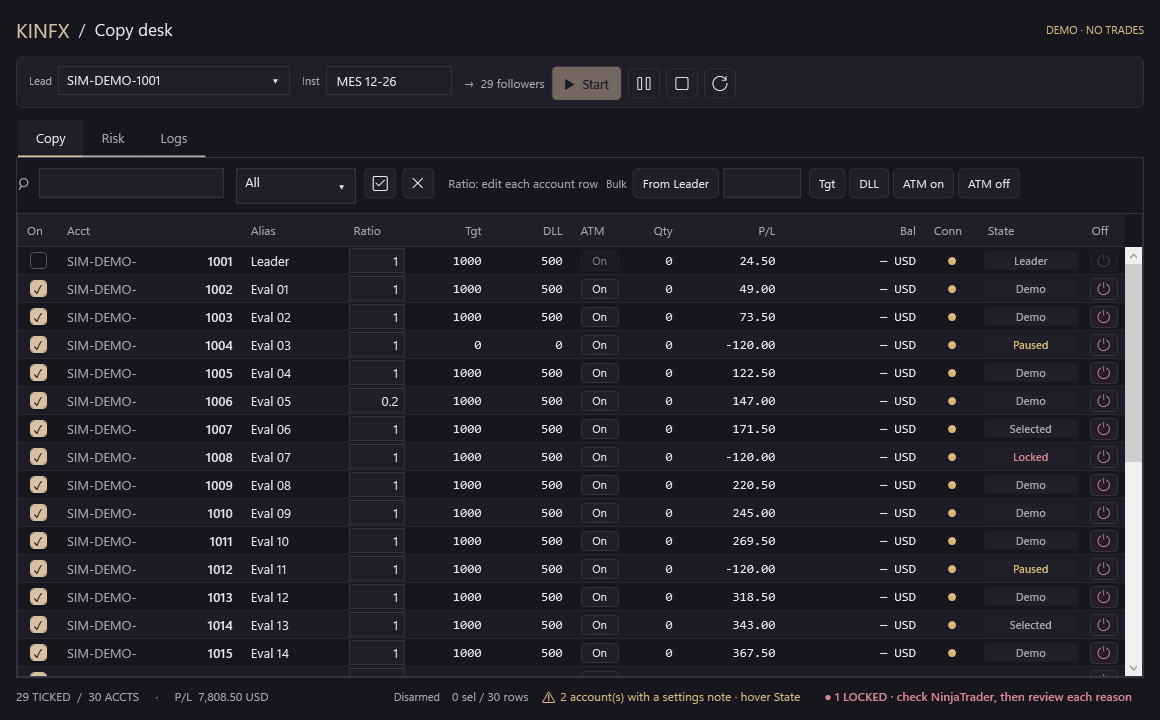
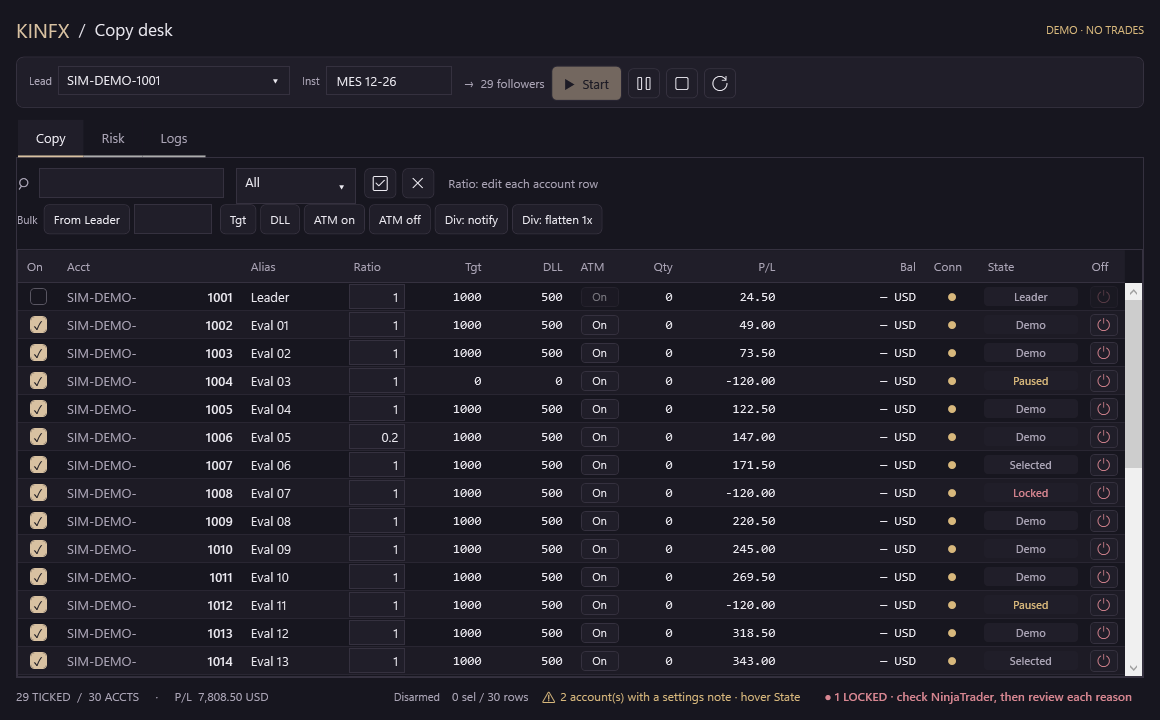
Issue #9 policy decided (oracles updated, engine unchanged); per-account OnDivergence setting (stored only); case-count test no longer hard-coded

diff --git a/src/AddOns/KINFXTradeCopier.cs b/src/AddOns/KINFXTradeCopier.cs
@@ -36,6 +36,7 @@ namespace NinjaTrader.NinjaScript.AddOns.Kinfx
             if(s==null||role=="Leader")return "";
             if(!RiskPolicy.Finite(s.Ratio)||s.Ratio<=0)return "Ratio is not a positive number";
             var notes=new System.Collections.Generic.List<string>();
+            if(s.OnDivergence=="FlattenOnce")notes.Add("On divergence = FlattenOnce is saved but NOT active in this alpha: the engine only locks and notifies, it never flattens by itself");
             if(s.Target<=0&&s.Loss<=0)notes.Add("no daily target and no daily loss limit (0 = off)");
             else if(s.Loss<=0)notes.Add("no daily loss limit (0 = off)");
             else if(s.Target<=0)notes.Add("no daily target (0 = off)");
@@ -113,13 +114,22 @@ namespace NinjaTrader.NinjaScript.AddOns.Kinfx
         public double Ratio = 1, Target, Loss, Floor, Baseline, TrailDistance, HighWater, BestDay, TotalProfit, Consistency;
         public int MaxContracts = 1;
         public string Alias = "", Group = "", Preset = "Custom", DrawdownType = "User defined";
+        // Reaction when this follower diverges (opposite / unknown exposure). "Notify" (default) = lock, red state, log; the engine
+        // never flattens by itself. "FlattenOnce" is an explicit per-account opt-in for a future guarded Flatten: one request, never retried.
+        // Stored only; the alpha engine has no automatic flatten and Flatten is disabled for every provider.
+        public string OnDivergence = "Notify";
         public bool BaselineSet, LocalTrail, CopyAtm=true;
         public RiskSettings Clone() { return (RiskSettings)MemberwiseClone(); }
         public bool Valid()
         {
             return new[] {Ratio,Target,Loss,Floor,Baseline,TrailDistance,HighWater,BestDay,TotalProfit,Consistency}.All(RiskPolicy.Finite)
-                && Ratio > 0 && Target >= 0 && Loss >= 0 && Floor >= 0 && MaxContracts > 0 && TrailDistance >= 0 && Consistency >= 0 && Consistency <= 100;
+                && Ratio > 0 && Target >= 0 && Loss >= 0 && Floor >= 0 && MaxContracts > 0 && TrailDistance >= 0 && Consistency >= 0 && Consistency <= 100
+                && DivergenceChoice.IsValid(OnDivergence);
         }
+    }
+    public static class DivergenceChoice
+    {
+        public static bool IsValid(string value){return value=="Notify"||value=="FlattenOnce";}
     }
     public sealed class RiskLatch
     {
@@ -1060,6 +1070,7 @@ namespace NinjaTrader.NinjaScript.AddOns.Kinfx
             if(t.ProcessedFollowGeneration==latestFollowGeneration)SyncFollowing(t.Following,t.DisablePending);else Changed();return true;
         }
         public bool CopyAtm {get{return Settings.CopyAtm;}set{Settings.CopyAtm=value;Changed();}}
+        public string OnDivergence {get{return Settings.OnDivergence;}set{if(!DivergenceChoice.IsValid(value))throw new ArgumentException("On divergence must be Notify or FlattenOnce");Settings.OnDivergence=value;Changed();}}
         public bool CanFollow {get{return Role!="Leader"&&(Account!=null?CopierEngine.Sim(Account):Connection=="Synthetic");}}
         public Brush ConnLight {get{return Connection=="Connected"?DashboardView.Good:Connection=="Disconnected"?DashboardView.Bad:Connection=="Synthetic"||Connection=="Connecting"?DashboardView.Warn:DashboardView.Off;}}
         public Brush StateLight {get{return Latch.Locked||Status=="Telemetry error"?DashboardView.Bad:Paused||Status=="Target hit"||(Status??"").IndexOf("pause",StringComparison.OrdinalIgnoreCase)>=0?DashboardView.Warn:Status=="Active"?DashboardView.Good:DashboardView.Off;}}
@@ -1261,7 +1272,7 @@ namespace NinjaTrader.NinjaScript.AddOns.Kinfx
             Sections=new TabControl{Background=Canvas,Foreground=Ink,BorderBrush=Line,Padding=new Thickness(0,10,0,0),ItemContainerStyle=TabStyle()};AddRow(this,Sections,2);
             var copy=new Grid();copy.RowDefinitions.Add(new RowDefinition{Height=GridLength.Auto});copy.RowDefinitions.Add(new RowDefinition{Height=new GridLength(1,GridUnitType.Star)});
             var toolbar=new WrapPanel{Margin=new Thickness(0,0,0,9)};
-            search=Input("",185);search.ToolTip="Search account / alias / group / preset · Ctrl+F · Escape clears";toolbar.Children.Add(Labeled("⌕",search,17));filter=Combo(120);filter.ToolTip="Filter displayed account states";filter.ItemsSource=new[]{"All","On","Paused","Target"};filter.SelectedIndex=0;toolbar.Children.Add(filter);var ticks=new StackPanel{Orientation=Orientation.Horizontal,Margin=new Thickness(0,0,0,6)};ticks.Children.Add(Icon("\uE73A","Tick all visible followers","tickAll",()=>TickVisible(true),true));ticks.Children.Add(Icon("\uE711","Untick all visible followers","tickNone",()=>TickVisible(false),true));toolbar.Children.Add(ticks);toolbar.Children.Add(new TextBlock{Text="Ratio: edit each account row",Foreground=Muted,FontSize=12,VerticalAlignment=VerticalAlignment.Center,Margin=new Thickness(8,0,8,6)});var bulk=new StackPanel{Orientation=Orientation.Horizontal,Margin=new Thickness(0,0,0,6)};bulk.Tag="bulkbar";bulk.Children.Add(Text("Bulk  ",11,Muted));var bulkValue=Input("",78);bulkValue.ToolTip="Amount for the highlighted accounts · account currency · 0 = off";System.Windows.Automation.AutomationProperties.SetName(bulkValue,"Bulk amount");bulk.Children.Add(bulkValue);bulk.Children.Add(TextTool("Tgt","Set Target on highlighted accounts","bulkTgt",()=>BulkClick("Tgt",bulkValue.Text)));bulk.Children.Add(TextTool("DLL","Set Daily loss on highlighted accounts","bulkDll",()=>BulkClick("DLL",bulkValue.Text)));bulk.Children.Add(TextTool("ATM on","ATM exit-mirroring ON for highlighted accounts","bulkAtmOn",()=>BulkClick("ATM","on")));bulk.Children.Add(TextTool("ATM off","ATM exit-mirroring OFF for highlighted accounts","bulkAtmOff",()=>BulkClick("ATM","off")));bulk.Children.Insert(1,TextTool("From Leader","Copy the leader row's Tgt / DLL / ATM to highlighted followers (all visible if none highlighted). One-time copy; edit any row afterwards. Ratio and ticks are not copied.","bulkLeader",()=>BulkLeaderClick()));bulkBar=bulk;toolbar.Children.Add(bulk);AddRow(copy,toolbar,0);
+            search=Input("",185);search.ToolTip="Search account / alias / group / preset · Ctrl+F · Escape clears";toolbar.Children.Add(Labeled("⌕",search,17));filter=Combo(120);filter.ToolTip="Filter displayed account states";filter.ItemsSource=new[]{"All","On","Paused","Target"};filter.SelectedIndex=0;toolbar.Children.Add(filter);var ticks=new StackPanel{Orientation=Orientation.Horizontal,Margin=new Thickness(0,0,0,6)};ticks.Children.Add(Icon("\uE73A","Tick all visible followers","tickAll",()=>TickVisible(true),true));ticks.Children.Add(Icon("\uE711","Untick all visible followers","tickNone",()=>TickVisible(false),true));toolbar.Children.Add(ticks);toolbar.Children.Add(new TextBlock{Text="Ratio: edit each account row",Foreground=Muted,FontSize=12,VerticalAlignment=VerticalAlignment.Center,Margin=new Thickness(8,0,8,6)});var bulk=new StackPanel{Orientation=Orientation.Horizontal,Margin=new Thickness(0,0,0,6)};bulk.Tag="bulkbar";bulk.Children.Add(Text("Bulk  ",11,Muted));var bulkValue=Input("",78);bulkValue.ToolTip="Amount for the highlighted accounts · account currency · 0 = off";System.Windows.Automation.AutomationProperties.SetName(bulkValue,"Bulk amount");bulk.Children.Add(bulkValue);bulk.Children.Add(TextTool("Tgt","Set Target on highlighted accounts","bulkTgt",()=>BulkClick("Tgt",bulkValue.Text)));bulk.Children.Add(TextTool("DLL","Set Daily loss on highlighted accounts","bulkDll",()=>BulkClick("DLL",bulkValue.Text)));bulk.Children.Add(TextTool("ATM on","ATM exit-mirroring ON for highlighted accounts","bulkAtmOn",()=>BulkClick("ATM","on")));bulk.Children.Add(TextTool("ATM off","ATM exit-mirroring OFF for highlighted accounts","bulkAtmOff",()=>BulkClick("ATM","off")));bulk.Children.Add(TextTool("Div: notify","On divergence: only lock, show red and notify (default) for highlighted accounts","bulkDivNotify",()=>BulkClick("Diverge","Notify")));bulk.Children.Add(TextTool("Div: flatten 1x","On divergence: request ONE flatten, never retried (saved only; NOT active in this alpha) for highlighted accounts","bulkDivFlat",()=>BulkClick("Diverge","FlattenOnce")));bulk.Children.Insert(1,TextTool("From Leader","Copy the leader row's Tgt / DLL / ATM to highlighted followers (all visible if none highlighted). One-time copy; edit any row afterwards. Ratio and ticks are not copied.","bulkLeader",()=>BulkLeaderClick()));bulkBar=bulk;toolbar.Children.Add(bulk);AddRow(copy,toolbar,0);
             AccountGrid=GridTable();TickColumn(AccountGrid);AccountColumn(AccountGrid);Column(AccountGrid,"Alias","Alias",100,false,"Optional display alias");RatioColumn(AccountGrid);Column(AccountGrid,"Tgt","TargetText",78,false,"Independent daily local profit target · account CCY / 0 = off",null,true);Column(AccountGrid,"DLL","LossText",78,false,"Independent daily loss limit · positive amount / 0 = off",null,true);AtmColumn(AccountGrid);Column(AccountGrid,"Qty","Position",55,true,"Signed position · + long / − short",null,true);Column(AccountGrid,"P/L","Pnl",95,true,"Observed session P/L in account currency · baseline is not historical daily accounting","N2",true);Column(AccountGrid,"Bal","BalanceText",130,true,"CashValue in account currency; not NetLiquidation / net equity",null,true);((DataGridTextColumn)AccountGrid.Columns.Last()).ElementStyle.Setters.Add(new Setter(FrameworkElement.ToolTipProperty,new Binding("BalanceDetail")));((DataGridTextColumn)AccountGrid.Columns.Last()).ElementStyle.Setters.Add(new Setter(System.Windows.Automation.AutomationProperties.NameProperty,new Binding("BalanceDetail")));LightColumn(AccountGrid,"Conn","ConnLight","Connection");StateColumn(AccountGrid);OffColumn(AccountGrid);AccountGrid.FrozenColumnCount=2;ProportionalCopyColumns(AccountGrid);AddRow(copy,AccountGrid,1);Sections.Items.Add(new TabItem{Header="Copy",Content=copy});
             var risk=new Grid();risk.RowDefinitions.Add(new RowDefinition{Height=GridLength.Auto});risk.RowDefinitions.Add(new RowDefinition{Height=new GridLength(1,GridUnitType.Star)});risk.RowDefinitions.Add(new RowDefinition{Height=GridLength.Auto});var tools=new WrapPanel{Margin=new Thickness(0,0,0,10)};
             var batch=Icon("\uE713","Batch risk / presets · review hold","batch",()=>Send("batch"));batch.IsEnabled=false;tools.Children.Add(batch);tools.Children.Add(Icon("\uE74E","Save settings","save",()=>Send("save")));tools.Children.Add(Icon("\uE787","Trading-day boundary / timezone","daySettings",()=>Send("daySettings")));tools.Children.Add(Icon("\uE769","Pause highlighted accounts","pauseSelected",()=>SetSelectedPause(true)));tools.Children.Add(Icon("\uE768","Resume highlighted accounts · latch unchanged / no auto-arm","resumeSelected",()=>SetSelectedPause(false)));var fs=Icon("\uE74D","Flatten highlighted accounts · review hold","flattenSelected",()=>Send("flattenSelected"));fs.IsEnabled=false;tools.Children.Add(fs);var fa=Icon("\uE7BA","Flatten all displayed accounts · review hold","flattenAll",()=>Send("flattenAll"));fa.IsEnabled=false;tools.Children.Add(fa);
@@ -1303,10 +1314,11 @@ namespace NinjaTrader.NinjaScript.AddOns.Kinfx
             double amount=0;bool atm=false;
             if(field=="Tgt"||field=="DLL"){if(!BulkEdit.TryParseAmount(text,out amount))return "Enter a plain amount like 1000 (0 = off); no commas, signs or text";}
             else if(field=="ATM"){if(text=="on")atm=true;else if(text=="off")atm=false;else return "ATM value must be on or off";}
+            else if(field=="Diverge"){if(!DivergenceChoice.IsValid(text))return "On divergence must be Notify or FlattenOnce";}
             else return "Unknown bulk field";
             foreach(var r in targets)
             {
-                if(field=="Tgt")r.Target=amount;else if(field=="DLL")r.Loss=amount;else r.CopyAtm=atm;
+                if(field=="Tgt")r.Target=amount;else if(field=="DLL")r.Loss=amount;else if(field=="Diverge")r.OnDivergence=text;else r.CopyAtm=atm;
                 r.Changed();
             }
             UpdateCards();return null;
@@ -1323,7 +1335,7 @@ namespace NinjaTrader.NinjaScript.AddOns.Kinfx
             if(targets.Length==0)return "No follower accounts to update";
             double tgt=leader.Target,dll=leader.Loss;bool atm=leader.CopyAtm;
             if(!RiskPolicy.Finite(tgt)||!RiskPolicy.Finite(dll)||tgt<0||dll<0)return "Leader Tgt / DLL are not valid amounts";
-            foreach(var r in targets){r.Target=tgt;r.Loss=dll;r.CopyAtm=atm;r.Changed();}
+            string div=leader.OnDivergence;foreach(var r in targets){r.Target=tgt;r.Loss=dll;r.CopyAtm=atm;r.OnDivergence=div;r.Changed();}
             UpdateCards();return null;
         }
         public void ClearLog(){LogBox.Text="";}

diff --git a/tests/BulkUiTests.cs b/tests/BulkUiTests.cs
@@ -213,10 +213,34 @@ public static class BulkUiTests {
   Check(v.LockedCount==0,"leader row is not counted as a locked follower");
   Check(!v.StartButton.IsEnabled,"Start stays held");
  }
+ // Issue #12 setting: per-account reaction to divergence. Default Notify; FlattenOnce is an explicit per-account choice.
+ static void DivergenceChoiceIsPerAccountDefaultsToNotify(){
+  var v=Fresh();
+  Check(v.Rows.Skip(1).All(r=>r.OnDivergence=="Notify"),"every row defaults to Notify");
+  v.Rows[2].OnDivergence="FlattenOnce";Check(v.Rows[2].OnDivergence=="FlattenOnce"&&v.Rows[3].OnDivergence=="Notify","choice is per account");
+  bool threw=false;try{v.Rows[2].OnDivergence="Retry";}catch(ArgumentException){threw=true;}
+  Check(threw&&v.Rows[2].OnDivergence=="FlattenOnce","an invalid value is refused and the previous choice stays");
+ }
+ static void DivergenceBulkAndFromLeaderAndNeverTrades(){
+  var v=Fresh();v.AccountGrid.UnselectAll();v.AccountGrid.SelectedItems.Add(v.Rows[1]);v.AccountGrid.SelectedItems.Add(v.Rows[2]);
+  Check(v.BulkApply("Diverge","FlattenOnce")==null,"bulk apply");
+  Check(v.Rows[1].OnDivergence=="FlattenOnce"&&v.Rows[2].OnDivergence=="FlattenOnce"&&v.Rows[3].OnDivergence=="Notify","bulk sets selected only");
+  Check(v.BulkApply("Diverge","Retry")!=null,"invalid bulk value refused");Check(v.Rows[1].OnDivergence=="FlattenOnce","unchanged after refusal");
+  v.Rows[0].OnDivergence="FlattenOnce";v.AccountGrid.UnselectAll();Check(v.BulkFromLeader()==null,"from leader");
+  Check(v.Rows.Skip(1).All(r=>r.OnDivergence=="FlattenOnce"),"From Leader copies the divergence choice too");
+  int follow=0;v.FollowRow=(r,on)=>follow++;v.BulkApply("Diverge","Notify");Check(follow==0,"setting never calls follow/engine");
+  Check(!v.StartButton.IsEnabled,"Start stays held");
+  v.Editable(false);Check(v.BulkApply("Diverge","FlattenOnce")!=null,"locked while attached");
+ }
+ static void FlattenOnceShowsAWarningNote(){
+  var v=Fresh();v.Rows[3].OnDivergence="FlattenOnce";v.Rows[3].Changed();v.UpdateCards();
+  Check(v.Rows[3].Advice.Contains("flatten"),"a FlattenOnce row carries a visible note that it is not active in this alpha: "+v.Rows[3].Advice);
+  v.Rows[3].OnDivergence="Notify";v.Rows[3].Changed();v.UpdateCards();Check(!v.Rows[3].Advice.Contains("flatten"),"note gone for Notify");
+ }
  [STAThread] public static int Main(string[] args){
   try{
    AppDomain.CurrentDomain.AssemblyResolve+=(s,e)=>{string n=e.Name.Split(',')[0];if(n.EndsWith(".resources"))return null;var loaded=AppDomain.CurrentDomain.GetAssemblies().FirstOrDefault(a=>a.GetName().Name==n);if(loaded!=null)return loaded;string p=System.IO.Path.Combine("C:/Program Files/NinjaTrader 8/bin",n+".dll");return System.IO.File.Exists(p)?System.Reflection.Assembly.LoadFrom(p):null;};
-   var all=new Action[]{TargetAndLossApplyToSelectedOnly,ZeroTurnsLimitOff,RatioStaysIndependent,InvalidInputChangesNothing,NoSelectionIsRefused,LeaderIsNotEdited,AtmToggleBulk,LockedWhenNotEditable,NeverTouchesFollowOrTrading,BarIsOnCopyTabAndKeepsHolds,FromLeaderCopiesToHighlighted,FromLeaderWithoutHighlightHitsAllVisibleFollowers,FromLeaderRespectsSearchFilter,FromLeaderKeepsRatioTickAndOtherFields,ManualEditAfterwardsSticksAndNoLiveLink,FromLeaderRefusedWhenLockedOrNoLeader,FromLeaderNeverTouchesFollowOrTrading,AdviceShownPerRowAndCounted,AdviceUpdatesAfterBulkApply,AdviceNeverBlocksOrChangesSettings,RatioCellFitsCommonValuesAt1160,LogsReadableAndTopAligned,LogClearWorksAndIsEditableIndependent,BadTargetDraftSurvivesRefreshAndBlocksCommit,BadLossDraftSurvivesRefreshAndBlocksCommit,BadTargetDraftSurvivesRecyclingAndStillBlocksCommit,TargetAndLossSetterRejectInvalidNumbers,LockedAccountIsRedWithReasonAndCountedInFooter,LockedCountIgnoresLeaderAndNeverBlocksUi};
+   var all=new Action[]{TargetAndLossApplyToSelectedOnly,ZeroTurnsLimitOff,RatioStaysIndependent,InvalidInputChangesNothing,NoSelectionIsRefused,LeaderIsNotEdited,AtmToggleBulk,LockedWhenNotEditable,NeverTouchesFollowOrTrading,BarIsOnCopyTabAndKeepsHolds,FromLeaderCopiesToHighlighted,FromLeaderWithoutHighlightHitsAllVisibleFollowers,FromLeaderRespectsSearchFilter,FromLeaderKeepsRatioTickAndOtherFields,ManualEditAfterwardsSticksAndNoLiveLink,FromLeaderRefusedWhenLockedOrNoLeader,FromLeaderNeverTouchesFollowOrTrading,AdviceShownPerRowAndCounted,AdviceUpdatesAfterBulkApply,AdviceNeverBlocksOrChangesSettings,RatioCellFitsCommonValuesAt1160,LogsReadableAndTopAligned,LogClearWorksAndIsEditableIndependent,BadTargetDraftSurvivesRefreshAndBlocksCommit,BadLossDraftSurvivesRefreshAndBlocksCommit,BadTargetDraftSurvivesRecyclingAndStillBlocksCommit,TargetAndLossSetterRejectInvalidNumbers,LockedAccountIsRedWithReasonAndCountedInFooter,LockedCountIgnoresLeaderAndNeverBlocksUi,DivergenceChoiceIsPerAccountDefaultsToNotify,DivergenceBulkAndFromLeaderAndNeverTrades,FlattenOnceShowsAWarningNote};
    int failed=0;foreach(var a in all){try{a();Console.WriteLine("PASS "+a.Method.Name);}catch(Exception ex){failed++;Console.WriteLine("FAIL "+a.Method.Name+" :: "+ex.Message);}}
    return failed==0?0:1;
   }catch(Exception ex){Console.WriteLine("HARNESS "+ex);return 2;}

diff --git a/tests/RiskTests.cs b/tests/RiskTests.cs
@@ -2,7 +2,7 @@ using System;
 using NinjaTrader.NinjaScript.AddOns.Kinfx;
 class RiskTests {
  static int Main(string[] args) {
-  try { Eq(false,DashboardSafety.CanExecute("start")); Eq(false,DashboardSafety.CanExecute("flattenSelected")); Eq(false,DashboardSafety.CanExecute("flattenAll")); Eq(false,DashboardSafety.CanExecute("batch")); Eq(true,DashboardSafety.CanExecute("refresh")); BulkAmount(); Console.WriteLine("PASS bulk amount grammar"); SettingsWarnings(); Console.WriteLine("PASS settings warnings"); WorkerRetention(); Console.WriteLine("PASS worker retains accepted work and reports rejection"); Quantity(); Console.WriteLine("PASS quantity"); Risk(); Console.WriteLine("PASS risk latch / exits / finite / DST"); Persistence(); Console.WriteLine("PASS XML atomic roundtrip"); Worker(); Console.WriteLine("PASS serial reentrancy + ownership"); Ledger(); Console.WriteLine("PASS lifecycle decisions / dedupe / reservation"); Presets(); Console.WriteLine("PASS sourced editable presets"); ChangePolicy(); Console.WriteLine("PASS locked reductions / partial exit totals"); DurableLock(); Console.WriteLine("PASS durable global latches / unlock recheck / advisory"); return 0; }
+  try { Eq(false,DashboardSafety.CanExecute("start")); Eq(false,DashboardSafety.CanExecute("flattenSelected")); Eq(false,DashboardSafety.CanExecute("flattenAll")); Eq(false,DashboardSafety.CanExecute("batch")); Eq(true,DashboardSafety.CanExecute("refresh")); BulkAmount(); Console.WriteLine("PASS bulk amount grammar"); SettingsWarnings(); Console.WriteLine("PASS settings warnings"); WorkerRetention(); Console.WriteLine("PASS worker retains accepted work and reports rejection"); DivergencePolicy(); Console.WriteLine("PASS divergence reaction setting"); Quantity(); Console.WriteLine("PASS quantity"); Risk(); Console.WriteLine("PASS risk latch / exits / finite / DST"); Persistence(); Console.WriteLine("PASS XML atomic roundtrip"); Worker(); Console.WriteLine("PASS serial reentrancy + ownership"); Ledger(); Console.WriteLine("PASS lifecycle decisions / dedupe / reservation"); Presets(); Console.WriteLine("PASS sourced editable presets"); ChangePolicy(); Console.WriteLine("PASS locked reductions / partial exit totals"); DurableLock(); Console.WriteLine("PASS durable global latches / unlock recheck / advisory"); return 0; }
   catch(Exception ex) { Console.WriteLine("FAIL "+ex.Message); return 1; }
  }
  static void Eq(object want,object got) { if(!want.Equals(got)) throw new Exception("expected "+want+" got "+got); }
@@ -62,6 +62,31 @@ class RiskTests {
   int errors=0;var later=new System.Collections.Generic.List<int>();var w3=new SerialWorker(ex=>System.Threading.Interlocked.Increment(ref errors));
   w3.Post(()=>{throw new InvalidOperationException("boom");});w3.Post(()=>{lock(later)later.Add(1);});w3.Dispose();
   Eq(1,errors);lock(later)Eq("1",string.Join(",",later));
+ }
+ // Issue #12: per-account reaction when a follower diverges. The DEFAULT is notify-only; flatten is an explicit opt-in.
+ // This is a setting only: the engine has no automatic flatten, and Flatten stays disabled in this alpha.
+ static void DivergencePolicy() {
+  var s=new RiskSettings();
+  Eq("Notify",s.OnDivergence);
+  Eq(true,s.Valid());
+  s.OnDivergence="FlattenOnce";Eq(true,s.Valid());
+  s.OnDivergence="Notify";Eq(true,s.Valid());
+  foreach(string bad in new[]{"","flatten","FlattenTwice","Retry",null,"Notify "}) { s.OnDivergence=bad; Eq(false,s.Valid()); }
+  Eq(true,DivergenceChoice.IsValid("Notify")); Eq(true,DivergenceChoice.IsValid("FlattenOnce")); Eq(false,DivergenceChoice.IsValid("x"));
+  // XML roundtrip keeps the choice per account, and an old file without the attribute loads as Notify.
+  var rows=new System.Collections.Generic.List<SavedAccount>();
+  var a=new SavedAccount{Name="A"};a.Settings.OnDivergence="FlattenOnce";var b=new SavedAccount{Name="B"};rows.Add(a);rows.Add(b);
+  var xml=SettingsStore.ToXml(rows,"MES 12-26","UTC",0);
+  var back=SettingsStore.FromXml(xml);
+  Eq("FlattenOnce",back[0].Settings.OnDivergence);Eq("Notify",back[1].Settings.OnDivergence);
+  foreach(var el in xml.Elements("Account")) { var at=el.Attribute("OnDivergence"); if(at!=null) at.Remove(); }
+  var old=SettingsStore.FromXml(xml);
+  Eq("Notify",old[0].Settings.OnDivergence);Eq("Notify",old[1].Settings.OnDivergence);
+  // a corrupted value on disk must not silently become a flatten
+  var bad2=SettingsStore.ToXml(rows,"MES 12-26","UTC",0);
+  foreach(var el2 in bad2.Elements("Account")){el2.SetAttributeValue("OnDivergence","Retry");break;}
+  bool refused=false; try{ SettingsStore.FromXml(bad2); }catch(Exception){ refused=true; }
+  Eq(true,refused);
  }
  static void Risk() {
   var s = new RiskSettings { Target=100, Loss=50, MaxContracts=4 };

diff --git a/tests/EngineTests.cs b/tests/EngineTests.cs
@@ -147,7 +147,13 @@ class EngineTests {
  static void FlatWorkingExits(){
   var l=new NinjaTrader.Cbi.Account{Name="Flat exits lead"};var a=new NinjaTrader.Cbi.Account{Name="Flat exits follow"};int locks=0;
   using(var e=new CopierEngine(s=>{},t=>{},(attached,s)=>{},(n,r)=>Interlocked.Increment(ref locks))){
-   e.Start(l,inst,new[]{Tuple.Create(a,new RiskSettings{MaxContracts=10},new RiskLatch())});Wait(()=>e.EntriesArmed,"flat exit arm");l.Emit(LeaderOrder(l,NinjaTrader.Cbi.OrderAction.Buy));Wait(()=>a.Submits==1,"flat exit entry");a.Orders[0].Filled=2;a.Orders[0].OrderState=NinjaTrader.Cbi.OrderState.Filled;a.Positions.Add(new NinjaTrader.Cbi.Position{Instrument=inst,Quantity=2,MarketPosition=NinjaTrader.Cbi.MarketPosition.Long});a.Emit(a.Orders[0]);l.Emit(LeaderOrder(l,NinjaTrader.Cbi.OrderAction.Sell,"flat exits bracket"));Wait(()=>a.Submits==2,"flat exit protection");a.Positions.Clear();e.Poll();Wait(()=>a.Cancels==1,"flat working exits must not reverse exposure");Wait(()=>locks==1,"flat position / execution mismatch locks");
+   e.Start(l,inst,new[]{Tuple.Create(a,new RiskSettings{MaxContracts=10},new RiskLatch())});Wait(()=>e.EntriesArmed,"flat exit arm");l.Emit(LeaderOrder(l,NinjaTrader.Cbi.OrderAction.Buy));Wait(()=>a.Submits==1,"flat exit entry");a.Orders[0].Filled=2;a.Orders[0].OrderState=NinjaTrader.Cbi.OrderState.Filled;a.Positions.Add(new NinjaTrader.Cbi.Position{Instrument=inst,Quantity=2,MarketPosition=NinjaTrader.Cbi.MarketPosition.Long});a.Emit(a.Orders[0]);l.Emit(LeaderOrder(l,NinjaTrader.Cbi.OrderAction.Sell,"flat exits bracket"));Wait(()=>a.Submits==2,"flat exit protection");a.Positions.Clear();e.Poll();
+   // POLICY (Issue #9, decided): a flat Position reading while the engine still owns exposure is ambiguous telemetry.
+   // It must NOT cancel the only protective exit. It locks the account and tells the user to reconcile by hand.
+   // Superseded oracle (kept for history): Wait(()=>a.Cancels==1,"flat working exits must not reverse exposure");
+   Wait(()=>locks==1,"flat position / execution mismatch locks");Thread.Sleep(150);
+   Check(a.Cancels==0,"ambiguous flat telemetry must not cancel the sole protective exit; cancels="+a.Cancels);
+   Check(a.Orders[1].OrderState==NinjaTrader.Cbi.OrderState.Working,"protective exit still working; state="+a.Orders[1].OrderState);
   }
  }
  static void InvalidLeaderLocks(){
@@ -180,7 +186,13 @@ class EngineTests {
   var l=new NinjaTrader.Cbi.Account{Name="Failed flatten lead"};var a=new NinjaTrader.Cbi.Account{Name="Failed flatten follow",ThrowFlatten=true};int locked=0;
   using(var e=new CopierEngine(s=>{},t=>{},(attached,s)=>{},(n,r)=>Interlocked.Increment(ref locked))){
    e.Start(l,inst,new[]{Tuple.Create(a,new RiskSettings{MaxContracts=10},new RiskLatch())});Wait(()=>e.EntriesArmed,"failed flatten arm");l.Emit(LeaderOrder(l,NinjaTrader.Cbi.OrderAction.Buy));Wait(()=>a.Submits==1,"failed flatten entry");a.Orders[0].Filled=2;a.Orders[0].OrderState=NinjaTrader.Cbi.OrderState.Filled;a.Positions.Add(new NinjaTrader.Cbi.Position{Instrument=inst,Quantity=2,MarketPosition=NinjaTrader.Cbi.MarketPosition.Long});a.Emit(a.Orders[0]);
-   e.Flatten(new[]{a},inst);Wait(()=>locked==1,"failed flatten lock");l.Emit(LeaderOrder(l,NinjaTrader.Cbi.OrderAction.Sell,"post failure protection"));Wait(()=>a.Submits==2,"failed flatten retains new protective exits");Check(!e.EntriesArmed,"failed flatten stays guarded");
+   e.Flatten(new[]{a},inst);Wait(()=>locked==1,"failed flatten lock");l.Emit(LeaderOrder(l,NinjaTrader.Cbi.OrderAction.Sell,"post failure protection"));Thread.Sleep(200);
+   // POLICY (Issue #9, decided): a thrown Flatten may still have been accepted by the provider. Do NOT copy a new leader exit
+   // onto that account (it could double-reduce and reverse it), do NOT retry the Flatten, lock and notify.
+   // Superseded oracle (kept for history): Wait(()=>a.Submits==2,"failed flatten retains new protective exits");
+   Check(a.Submits==1,"a thrown Flatten must not authorise copying a new exit; submits="+a.Submits);
+   Check(a.Flattens==0,"a thrown Flatten is never retried by the engine; flattens="+a.Flattens);
+   Check(!e.EntriesArmed,"failed flatten stays guarded");
   }
  }
  static void PerFollowerAtm(){

diff --git a/tests/test_tooling.py b/tests/test_tooling.py
@@ -70,7 +70,14 @@ class RunnerTests(unittest.TestCase):
         text = 'class X { static void Main(string[] args) {} static void Eq(bool x) {} static void First() {} static void Second() {} }'
         self.assertEqual(['First', 'Second'], m.case_names(text))
         risk = (ROOT / 'tests/RiskTests.cs').read_text(encoding='utf-8')
-        self.assertEqual(11, len(m.case_names(risk)))
+        # Count every zero-argument `static void Name()` in the fixture independently of the runner's own discovery,
+        # and require every case that Main calls to be discovered. No hard-coded number to bump on each new case.
+        import re
+        declared = re.findall(r'\bstatic\s+void\s+([A-Za-z_]\w*)\s*\(\s*\)\s*\{', risk)
+        self.assertEqual(sorted(declared), sorted(m.case_names(risk)))
+        self.assertGreaterEqual(len(declared), 12)
+        for name in ('SettingsWarnings', 'WorkerRetention', 'DivergencePolicy', 'BulkAmount'):
+            self.assertIn(name, m.case_names(risk))
         self.assertTrue(hasattr(m, 'pure_extra_source'), 'original risk Main UI hold assertions need an independent case')
         self.assertIn('DashboardCommandsRemainHeld', m.pure_extra_source())
         independent = (ROOT / 'tests/EngineIndependentReview.cs').read_text(encoding='utf-8')

diff --git a/docs/KNOWN-ISSUES.md b/docs/KNOWN-ISSUES.md
@@ -85,6 +85,9 @@ Custom-crypto/internal-verifier probes do not prove default production reachabil
 ### Per-account TP / SL after hand-tuning (not implemented)
 Follower TP / SL are mirrors of the leader's non-market exits. With ATM off a follower has no TP / SL of its own yet still copies a leader **market** exit, so a hand-tuned account is dragged out when the leader flattens. There is no self-managed exit mode or per-account TP / SL distance. Depends on #2, #3 and #9; do not add follower-owned protective orders first. [Issue #10](https://github.com/Kinfxhk/KINFXTradeCopier/issues/10)
 
+### Divergence reaction (Issue #12): setting stored, behaviour not built
+Each account has an `OnDivergence` choice, `Notify` (default) or `FlattenOnce`, saved per account and carried by Bulk and From Leader. It is **stored only**: the engine never flattens by itself, Flatten is disabled for every provider, and a row set to `FlattenOnce` shows a note saying so. What actually happens on divergence is still: lock, red state, red footer count, log line. An automatic single flatten needs the uncertain-Flatten handling above and real provider evidence first.
+
 ### Related user-facing gaps (not implemented)
 Adopting an existing position on a new follower: [#11](https://github.com/Kinfxhk/KINFXTradeCopier/issues/11). Per-account notify-only versus flatten-once on divergence: [#12](https://github.com/Kinfxhk/KINFXTradeCopier/issues/12). Actions the software cannot recover from: [DO-NOT-DO](DO-NOT-DO.md).
 
@@ -92,9 +95,8 @@ Adopting an existing position on a new follower: [#11](https://github.com/Kinfxh
 
 - **Pure SPEC:** final validator388 and contract191 PASS do not exercise the C# engine. semantic91 still has 89 PASS / 2 schema FAIL (`register_schema_session`, `register_schema_generation`). Registration-price hints, Cancel capacity and ACKs below positive fills have scoped validator corrections, not integrated dispatch acceptance. The preserved initial harness failures and corrected legal-prefix fixtures must remain separately identified. [E08, E09]
 - **Harness:** nonexistent/misordered reflection method invocation, missing fixture-relative seed files, output file locks and compiler-host crashes can fail before the intended assertion. Preserve these attempts; corrected invocation is not a product RED→GREEN. One secondary fake callback legitimately advanced the exit ledger in an unisolated probe; isolated and unisolated results are both retained. [E01, E10]
-- **Fixture callback gap (fixed in tests, not product):** `AtmMode`, `Lifecycle` and `SubsetFlatten` marked the fake follower entry Filled/Position but never emitted that fill as an `OrderUpdate`. The engine correctly refuses to copy exits across an unobserved fill, so they timed out at "exit copy". Each now emits the fill callback (3 added `Emit` calls, no assertion changed): engine 89P/5F → 92P/2F, same production SHA. `FlatWorkingExits` and `FailedFlattenKeepsProtection` already emit it and still fail, so they are **not** explained by this gap. A scratch probe (repo untouched) shows why; they are **old-oracle vs current-policy conflicts**, left failing on purpose ([Issue #9](https://github.com/Kinfxhk/KINFXTradeCopier/issues/9)):
-  - `FlatWorkingExits` expects `Cancels==1` when Position reads flat while owned exposure is 2. Engine result: `cancels=0 submits=2 locks=1`: it locks and keeps the sole protective exits. This matches the current "ambiguous flat telemetry must not cancel sole protection" policy, so the old assertion is probably obsolete, but nobody has decided that.
-  - `FailedFlattenKeepsProtection` expects a new leader exit to be copied (`Submits==2`) after a Flatten call throws. Engine result: `submits=1 locked=1`: the follower stays in Flattening, so the new exit is skipped. Current policy blocks concurrent recovery exits while a close may have been accepted. Mirroring the exit risks a duplicate reduction; skipping it can leave new exposure unprotected. This is a policy trade-off, not a bug I can settle offline.
+- **Fixture callback gap (fixed in tests, not product):** `AtmMode`, `Lifecycle` and `SubsetFlatten` marked the fake follower entry Filled/Position but never emitted that fill as an `OrderUpdate`. The engine correctly refuses to copy exits across an unobserved fill, so they timed out. Each now emits the fill callback (3 added `Emit` calls, no assertion changed).
+- **Policy decided, Issue #9:** the two remaining engine failures were old expectations that conflicted with the safety policy. The maintainer decided: (1) a flat Position reading while the engine still owns exposure is ambiguous telemetry and must **not** cancel the only protective exit (lock, keep the exit); (2) after a **thrown Flatten** the engine must **not** copy a new leader exit onto that account and must **not** retry the Flatten (it may already have been accepted); lock and notify. `FlatWorkingExits` and `FailedFlattenKeepsProtection` in `EngineTests.cs` now assert exactly that, with the superseded assertions kept as comments. This changed the oracle, not the engine: the engine already behaved this way. **Cost, stated plainly:** after a thrown Flatten the account can hold a new position with no copied exit until you reconcile by hand. Decided trade-off, not a solved problem.
 - **Pure performance policy:** G01 index review retains 333 PASS / 35 FAIL; equivalent snapshots and deterministic node/scan budgets are not provider latency acceptance. A prior scope incident remains separate from technical findings; a clean parent replay does not erase it. [E11]
 - **Build tooling:** a scratch standalone driver passes 18 boundary probes and one NT compile-only. It does not fix PowerShell Roslyn StackOverflow root cause, long-path limitations or bypass through direct editor/compiler builds. Source and reference warnings have different origins; warning counts are not defect counts. [E12; issue #1](https://github.com/Kinfxhk/KINFXTradeCopier/issues/1)
 

diff --git a/docs/TEST-MATRIX.md b/docs/TEST-MATRIX.md
@@ -27,8 +27,8 @@ Evidence IDs refer to sanitized records in [EVIDENCE.json](EVIDENCE.json). Raw l
 | Protective resizing / F01 | Two safety cases FAIL on baseline; each repeated five times on reviewed/workspace copies of the same hash. A later scratch frontier candidate has core16 16 PASS. [E02, E03] | **Known baseline defect; scoped fix not integrated.** |
 | ON and cancellation frontier | Corrected parent replay distinguishes separate ON, OCO and composed clones. Later cancellation candidate: independent9 9 PASS, additional3 3 PASS, frontier9 9 PASS; paired baseline failures retained. [E03, E10] | **Scoped fix not integrated.** Local final gate does not establish broker atomicity. |
 | Group OCO completion | `ReviewOcoCompletedSliceCancelOnlyItsGroup` remains FAIL on frozen and cancellation candidates; OCO10 is 9 PASS / 1 FAIL on each. Duplicate occurrence in the group fixture is not a second defect. [E03] | **Known product defect on repair clones; still unresolved.** Pure certificate algebra does not repair it. |
-| Public baseline C# runner (`scripts/offline.py`) | Source `db55c8ca…`: pure 11 PASS / 0 FAIL; engine 104 PASS / 2 FAIL (incl. F01, user-misuse and 4 mailbox-refusal cases); independent 24 PASS / 1 FAIL; full AddOn compile-only OK (never executed). Engine failures: `FlatWorkingExits`, `FailedFlattenKeepsProtection` (old-oracle vs current-policy conflict, [#9](https://github.com/Kinfxhk/KINFXTradeCopier/issues/9)). Independent failure: `ExplicitManualFlatReconciliationAvailable` (missing verified-flat recovery seam, [#6](https://github.com/Kinfxhk/KINFXTradeCopier/issues/6)). | Synthetic fakes only. Three fixture callback gaps were fixed in the tests (89P/5F → 92P/2F); see KNOWN-ISSUES. Not provider acceptance. |
-| Bulk Tgt / DLL / ATM bar (UI, synthetic Demo) | `BulkUiTests.cs` 29 PASS (adds: a locked account reads Locked in text, red lamp, tooltip reason and a red footer count, leader excluded; hand-typed malformed Target / DLL survives a refresh, blocks commit and survives row recycling; setters reject negative / NaN / Infinity; per-row settings notes and footer count, notes update after bulk apply, notes never block or change values, Ratio cell fits 0.125 / 12.5 / 100 at 1160px, Logs text bright and top-aligned, Clear log) (7 for **From Leader**: copies leader Tgt/DLL/ATM once to highlighted or all visible followers, respects search filter, no live link, Ratio/tick untouched, refused when locked or no leader): selected followers only, leader skipped, Ratio untouched, invalid input changes nothing, locked when not editable, never calls follow/engine, Start stays held. `RiskTests.cs` BulkAmount and SettingsWarnings PASS. Old `UiSmoke` still PASS (13 Copy columns, all holds). | Source `db55c8ca…`. Synthetic rows, no account or engine. Real NT window, real DPI and persistence of bulk-edited values across a real save/reopen are untested. |
+| Public baseline C# runner (`scripts/offline.py`) | Source `391bc435…`: pure 12 PASS / 0 FAIL; engine 106 PASS / 0 FAIL (the two Issue #9 cases now assert the decided policy; see KNOWN-ISSUES); independent 24 PASS / 1 FAIL; full AddOn compile-only OK (never executed). Independent failure: `ExplicitManualFlatReconciliationAvailable` (missing verified-flat recovery seam, [#6](https://github.com/Kinfxhk/KINFXTradeCopier/issues/6)). | Synthetic fakes only. Three fixture callback gaps were fixed in the tests (89P/5F → 92P/2F); see KNOWN-ISSUES. Not provider acceptance. |
+| Bulk Tgt / DLL / ATM bar (UI, synthetic Demo) | `BulkUiTests.cs` 32 PASS (adds: per-account OnDivergence setting defaults to Notify, bulk and From Leader carry it, FlattenOnce shows a not-active note; a locked account reads Locked in text, red lamp, tooltip reason and a red footer count, leader excluded; hand-typed malformed Target / DLL survives a refresh, blocks commit and survives row recycling; setters reject negative / NaN / Infinity; per-row settings notes and footer count, notes update after bulk apply, notes never block or change values, Ratio cell fits 0.125 / 12.5 / 100 at 1160px, Logs text bright and top-aligned, Clear log) (7 for **From Leader**: copies leader Tgt/DLL/ATM once to highlighted or all visible followers, respects search filter, no live link, Ratio/tick untouched, refused when locked or no leader): selected followers only, leader skipped, Ratio untouched, invalid input changes nothing, locked when not editable, never calls follow/engine, Start stays held. `RiskTests.cs` BulkAmount and SettingsWarnings PASS. Old `UiSmoke` still PASS (13 Copy columns, all holds). | Source `391bc435…`. Synthetic rows, no account or engine. Real NT window, real DPI and persistence of bulk-edited values across a real save/reopen are untested. |
 | Mailbox / Dispose / HOL | Owner fake vectors retain hard-bound, rejected-Post and accepted-callback Dispose failures; synthetic scale130 remains 63 PASS / 67 FAIL on base and ON candidate. Parent p94b readback of reviewer130 is not its own rerun. [E10, E13] | **Known fake-engine residuals**, not 67 independent bugs. Real account latency remains unknown. |
 | Membership / settings | Parent membership candidate: alias4 4 PASS; collection22 22 PASS. Reentry12 remains 6 PASS / 6 FAIL. [E03] | **Scoped membership fix not integrated**; publication policy unresolved. |
 | Nested publication adjudication | Fresh 55 invocations: 41 PASS / 14 FAIL. Six broad rollback failures, six proposed whole-root-policy RED, one strict-zero-transient RED and one raw XML ordering FAIL are retained. Equal field maps and disk/index bytes distinguish the last case. [E05] | **Oracle / policy / representation distinctions**, not fourteen confirmed corruption bugs. |

diff --git a/docs/SAFETY-HOLD.md b/docs/SAFETY-HOLD.md
@@ -175,7 +175,7 @@ unchanged separately from this public-source proof.
 
 `32de3089…` above is the hold-hardening revision and the base for the recorded RED/GREEN runs. Later UI-only commits change the source hash but not the hold:
 
[2 lines of base64/hex data omitted]
 
 The bulk bar edits highlighted follower rows only, validates before mutating, never touches Ratio, the follow tick, latches or any engine path, and is disabled while attached. Start / Flatten / the old `batch` dialog remain held (`tests/test_production_hold.py` and `BulkUiTests.cs` `NeverTouchesFollowOrTrading`).
 
@@ -183,3 +183,4 @@ The bulk bar edits highlighted follower rows only, validates before mutating, ne
 - Tgt / DLL row-owned text drafts (`TargetText` / `LossText`): same source hash as above.
 - Footer shows a red count of locked follower accounts (`LockedCount` / `LockedText`). Display only; no new action. Same source hash as above.
 - Mailbox: `SerialWorker.Post` now reports refusal (`bool`); `FollowerUpdate`, `Poll`, `SetFollowing` and the fake-path `Flatten` undo what they raised before Post when it is refused. Same source hash as above.
+- Per-account `OnDivergence` setting (default `Notify`, optional `FlattenOnce`), stored and shown only. The engine has no automatic flatten and Flatten stays disabled. Same source hash as above.

diff --git a/docs/DO-NOT-DO.md b/docs/DO-NOT-DO.md
@@ -50,6 +50,10 @@ Source of truth: the lock messages in `src/AddOns/KINFXTradeCopier.cs`. Each row
 
 When the engine loses track of a follower it locks that account: the State cell says **Locked**, the lamp is red, the tooltip carries the engine's reason, and the footer shows a red `● N LOCKED` count. It does not flatten the account and it does not cancel your protective orders. **A lock is a prompt to go and look, not a fix.** Open NinjaTrader's Positions and Orders tabs first.
 
+## What happens after a failed Flatten
+
+If a Flatten request throws, the provider may still have accepted it. The engine does **not** retry it, and it does **not** copy a new leader exit onto that account. It locks the account and stays that way until you reconcile by hand. The cost: that account can end up with a position and no copied exit. Look at NinjaTrader's Positions and Orders tabs yourself, and make the account safe with native tools. Flatten is disabled in this alpha anyway.
+
 ## Planned, not built
 
 - Adopting an existing position on a just-connected follower: [#11](https://github.com/Kinfxhk/KINFXTradeCopier/issues/11).
